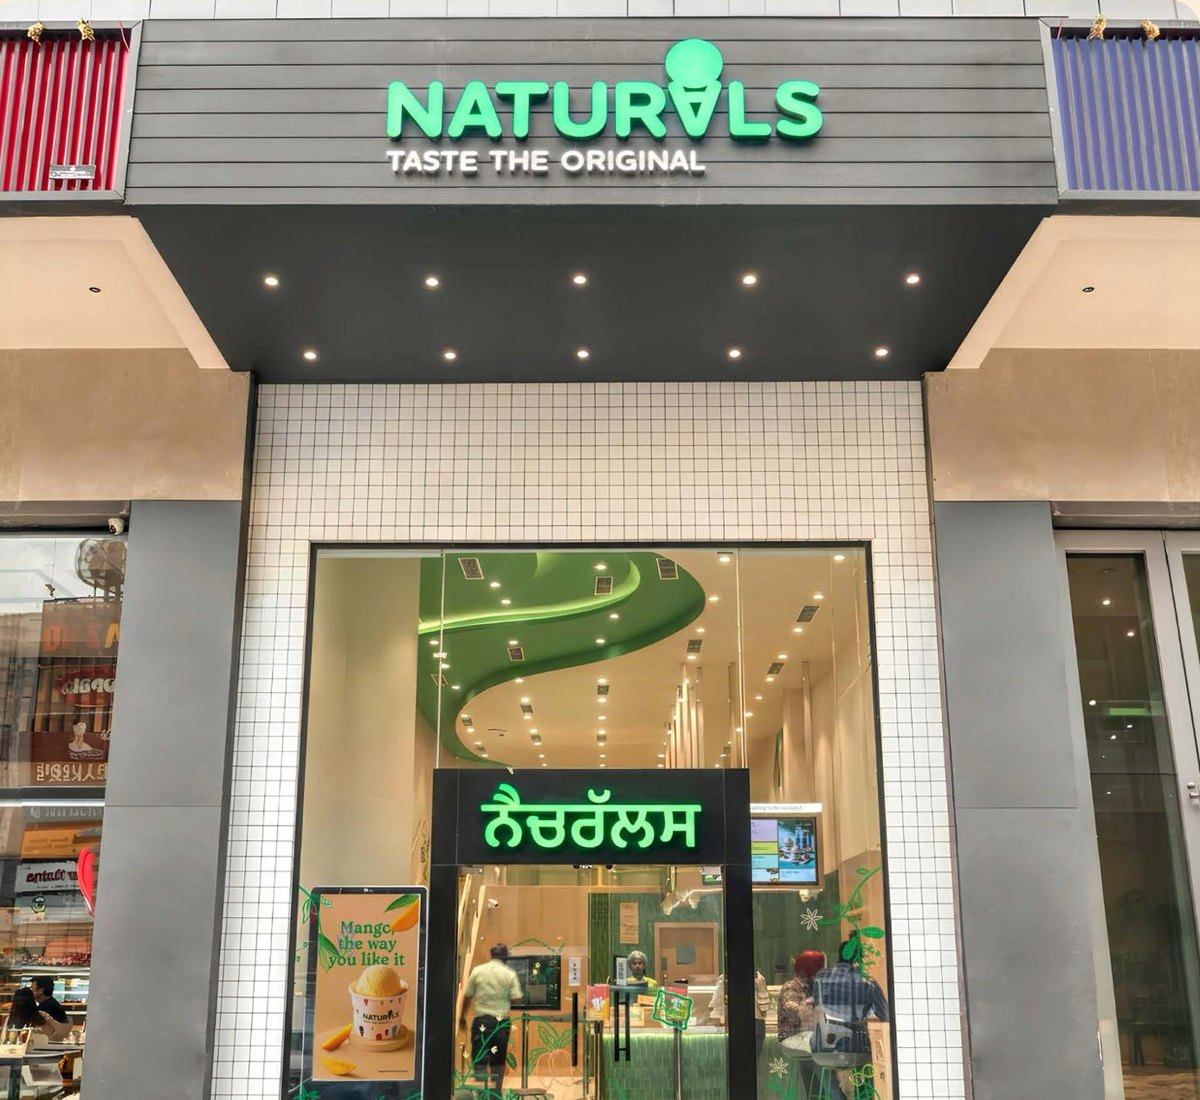
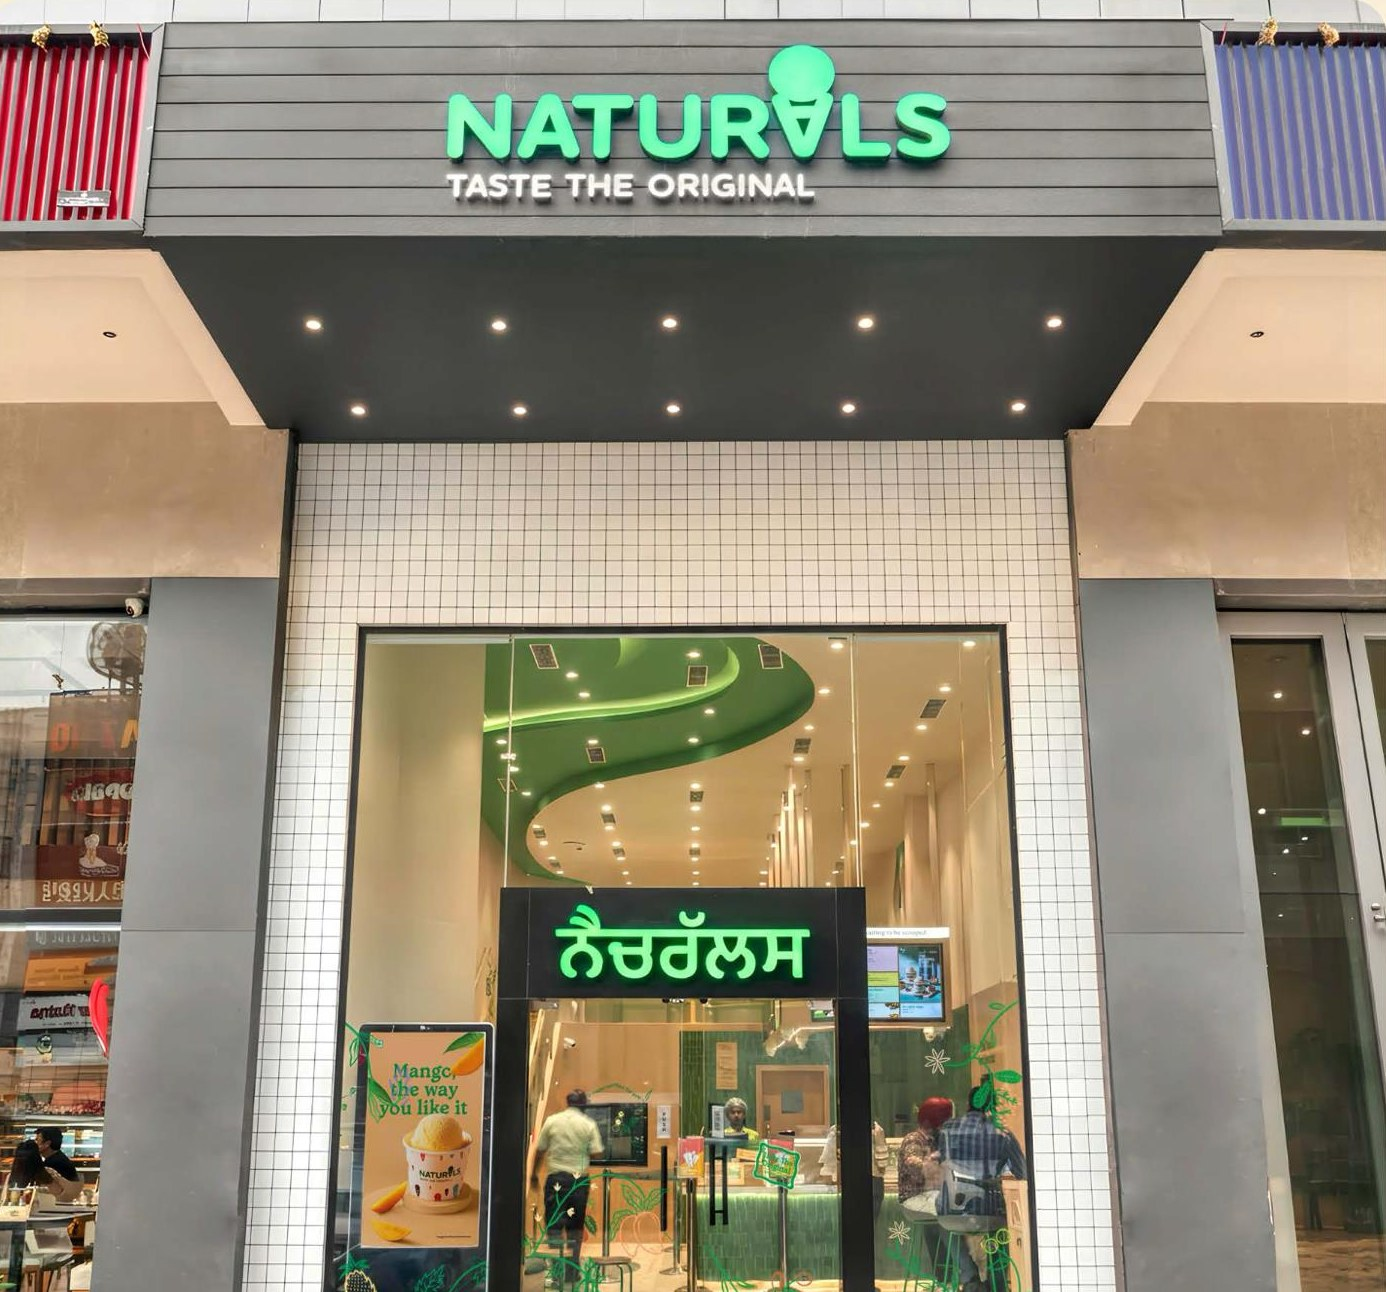
Make Naturals store photos large and image-led
Two tall shots, a full-bleed counter and a row of three portraits,
each with a short numbered caption.

Claude-Session: https://claude.ai/code/session_01TvPUFYKEADTWzq9u8emBqb

diff --git a/naturals.html b/naturals.html
@@ -143,42 +143,33 @@
           <p>Flowing architectural forms echo the organic movement of nature and the swirl of ice cream, creating a seamless journey through the space. Materials and textures inspired by natural landscapes and creamy finishes make the environment feel warm, tactile and inviting.</p>
         </div>
       </div>
-      <div class="splits">
-        <div class="split split--small">
-          <figure class="split__media"><img src="assets/img/naturals-facade.jpg" width="1200" height="1100" alt="The Naturals storefront: a white-tiled portal with the green swirl ceiling visible through the glass." loading="lazy" decoding="async"></figure>
-          <div class="split__text">
-            <h3 class="split__title"><span class="split__num">01</span>Arrive</h3>
-            <p>A bright, white-tiled portal frames a glimpse of the green swirl inside, drawing passers-by in from the street.</p>
-          </div>
-        </div>
-        <div class="split split--flip">
-          <figure class="split__media"><img src="assets/img/naturals-3.jpg" width="1100" height="880" alt="The tasting counter, clad in green tiles and lit from below, under an illuminated menu." loading="lazy" decoding="async"></figure>
-          <div class="split__text">
-            <h3 class="split__title"><span class="split__num">02</span>Taste</h3>
-            <p>A dedicated tasting space lets customers discover the pure, authentic taste of real fruit, bringing them closer to the origin of every flavour through an intuitive, category-based menu.</p>
-          </div>
-        </div>
-        <div class="split split--portrait split--small">
-          <figure class="split__media"><img src="assets/img/naturals-finder.jpg" width="841" height="1240" alt="A customer using the ‘Find your next favorite’ touchscreen beside the counter." loading="lazy" decoding="async"></figure>
-          <div class="split__text">
-            <h3 class="split__title"><span class="split__num">03</span>Discover</h3>
-            <p>An interactive digital touchpoint helps customers explore Naturals’ flavour range and find their next favourite.</p>
-          </div>
-        </div>
-        <div class="split split--portrait split--small split--flip">
-          <figure class="split__media"><img src="assets/img/naturals-waffle.jpg" width="839" height="1553" alt="A window in a timber wall showing waffle cones being made, under the words ‘Freshly made waffles for you’." loading="lazy" decoding="async"></figure>
-          <div class="split__text">
-            <h3 class="split__title"><span class="split__num">04</span>Watch</h3>
-            <p>A window onto the waffle station puts the craft on show: cones made fresh, in full view.</p>
-          </div>
-        </div>
-        <div class="split split--portrait split--small">
-          <figure class="split__media"><img src="assets/img/naturals-birdcall.jpg" width="1000" height="1251" alt="A customer pressing a green button on the wall beside a ‘Since 1984. Just milk, fruits, sugar.’ illustration." loading="lazy" decoding="async"></figure>
-          <div class="split__text">
-            <h3 class="split__title"><span class="split__num">05</span>Celebrate</h3>
-            <p>As a final touchpoint, customers press a celebratory button that plays a different bird call with every interaction, completing the immersive orchard experience.</p>
-          </div>
-        </div>
+      <div class="store-pair">
+        <figure class="store-shot">
+          <img src="assets/img/naturals-facade.jpg" width="1386" height="1292" alt="The Naturals storefront: a white-tiled portal with the green swirl ceiling visible through the glass." loading="lazy" decoding="async">
+          <figcaption><h3 class="split__title"><span class="split__num">01</span>Arrive</h3><p>A bright, white-tiled portal frames a glimpse of the green swirl inside, drawing passers-by in from the street.</p></figcaption>
+        </figure>
+        <figure class="store-shot">
+          <img src="assets/img/naturals-seating.jpg" width="1386" height="1562" alt="Curved green banquette seating wraps a column, with a terrazzo path flowing towards the staircase." loading="lazy" decoding="async">
+          <figcaption><h3 class="split__title"><span class="split__num">02</span>Linger</h3><p>Curved banquettes and a terrazzo river flow through the space like the swirl of ice cream, inviting people to stay a while.</p></figcaption>
+        </figure>
+      </div>
+      <figure class="bleed store-wide">
+        <img src="assets/img/naturals-counter.jpg" width="1444" height="943" alt="The tasting counter, clad in green tiles and lit from below, under an illuminated menu." loading="lazy" decoding="async">
+        <figcaption><h3 class="split__title"><span class="split__num">03</span>Taste</h3><p>A dedicated tasting space lets customers discover the pure, authentic taste of real fruit, bringing them closer to the origin of every flavour through an intuitive, category-based menu.</p></figcaption>
+      </figure>
+      <div class="store-trio">
+        <figure class="store-shot">
+          <img src="assets/img/naturals-finder.jpg" width="841" height="1240" alt="A customer using the ‘Find your next favorite’ touchscreen beside the counter." loading="lazy" decoding="async">
+          <figcaption><h3 class="split__title"><span class="split__num">04</span>Discover</h3><p>An interactive touchpoint helps customers explore the flavour range and find their next favourite.</p></figcaption>
+        </figure>
+        <figure class="store-shot">
+          <img src="assets/img/naturals-waffle.jpg" width="839" height="1553" alt="A window in a timber wall showing waffle cones being made, under the words ‘Freshly made waffles for you’." loading="lazy" decoding="async">
+          <figcaption><h3 class="split__title"><span class="split__num">05</span>Watch</h3><p>A window onto the waffle station puts the craft on show: cones made fresh, in full view.</p></figcaption>
+        </figure>
+        <figure class="store-shot">
+          <img src="assets/img/naturals-birdcall.jpg" style="object-position: 88% 50%" width="1000" height="1251" alt="A customer pressing a green button on the wall beside a ‘Since 1984. Just milk, fruits, sugar.’ illustration." loading="lazy" decoding="async">
+          <figcaption><h3 class="split__title"><span class="split__num">06</span>Celebrate</h3><p>A celebratory button plays a different bird call with every press, completing the orchard experience.</p></figcaption>
+        </figure>
       </div>
     </section>
 

diff --git a/css/styles.css b/css/styles.css
@@ -1472,3 +1472,54 @@ p, li, dd { text-wrap: pretty; }
 @media (min-width: 760px) and (max-width: 1099.98px) {
   .tiles { grid-template-columns: repeat(2, 1fr); }
 }
+
+/* Naturals store: large, image-led layout */
+.store-pair,
+.store-trio {
+  display: grid;
+  gap: clamp(2.5rem, 4vw, 3.5rem) var(--gap);
+}
+
+@media (min-width: 760px) {
+  .store-pair { grid-template-columns: 1fr 1fr; }
+  .store-trio { grid-template-columns: repeat(3, 1fr); }
+}
+
+.store-shot img {
+  width: 100%;
+  aspect-ratio: 4 / 5;
+  object-fit: cover;
+}
+
+.store-trio .store-shot img { aspect-ratio: 2 / 3; }
+
+.store-wide img {
+  width: 100%;
+  height: 92vh;
+  height: 92svh;
+  min-height: 24rem;
+  max-height: none;
+  object-fit: cover;
+}
+
+.store-shot figcaption,
+.store-wide figcaption { margin-top: 1.25rem; }
+
+.store-wide figcaption {
+  display: grid;
+  gap: .5rem var(--gutter);
+  padding-inline: var(--gutter);
+}
+
+@media (min-width: 960px) {
+  .store-wide figcaption { grid-template-columns: 5fr 7fr; align-items: start; }
+}
+
+.store-shot figcaption p,
+.store-wide figcaption p {
+  max-width: 46ch;
+  margin-top: .75rem;
+  color: var(--ink-soft);
+}
+
+.store-wide figcaption p { margin-top: 0; }
